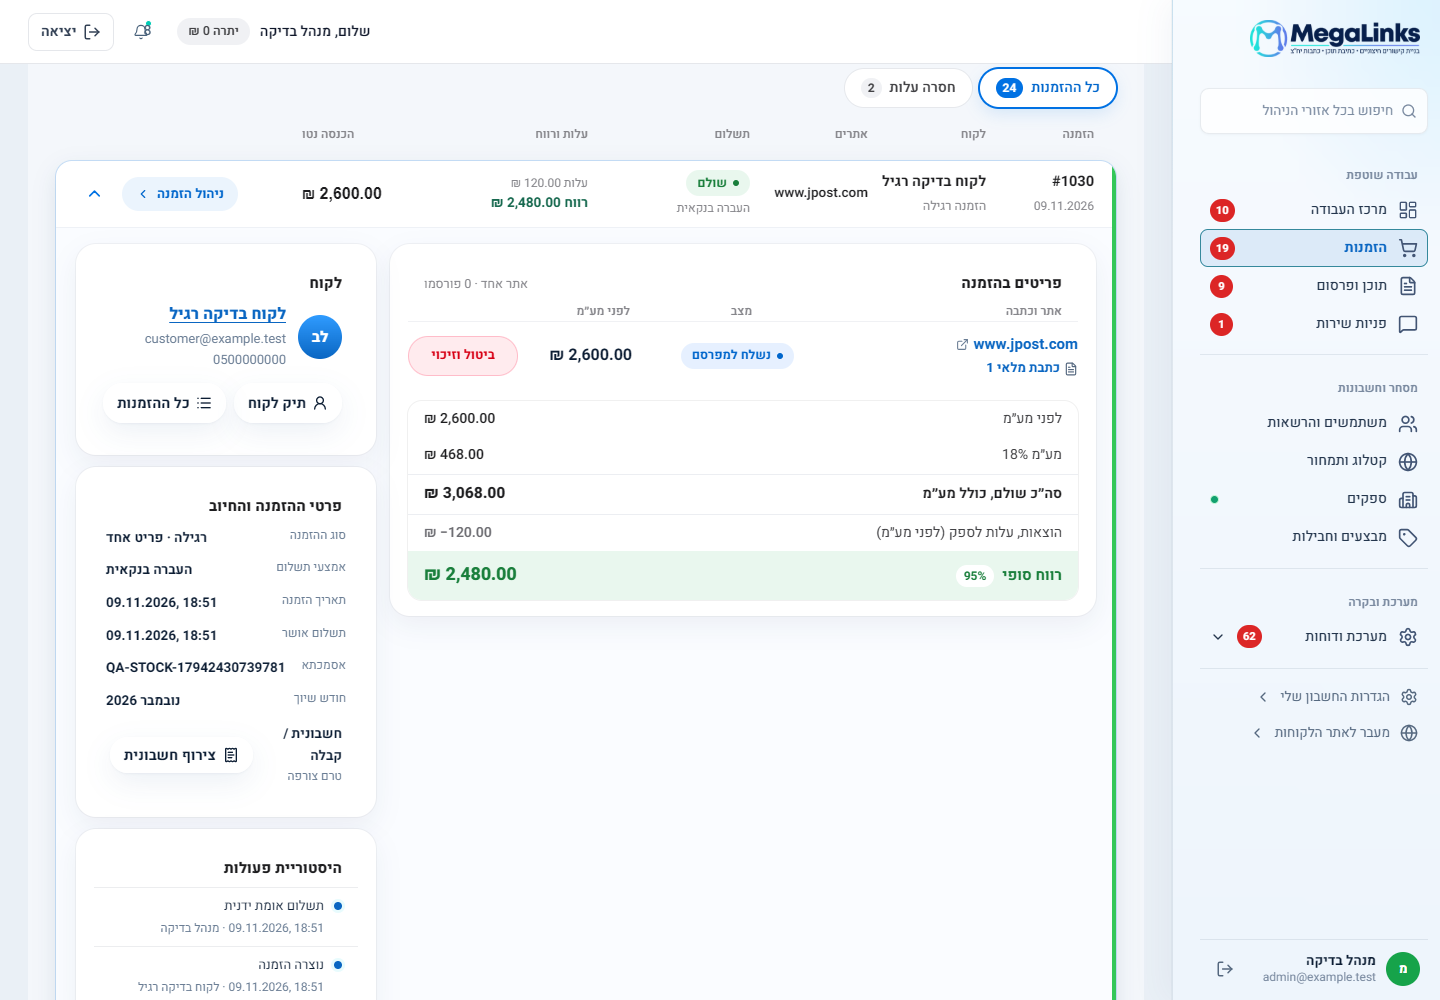
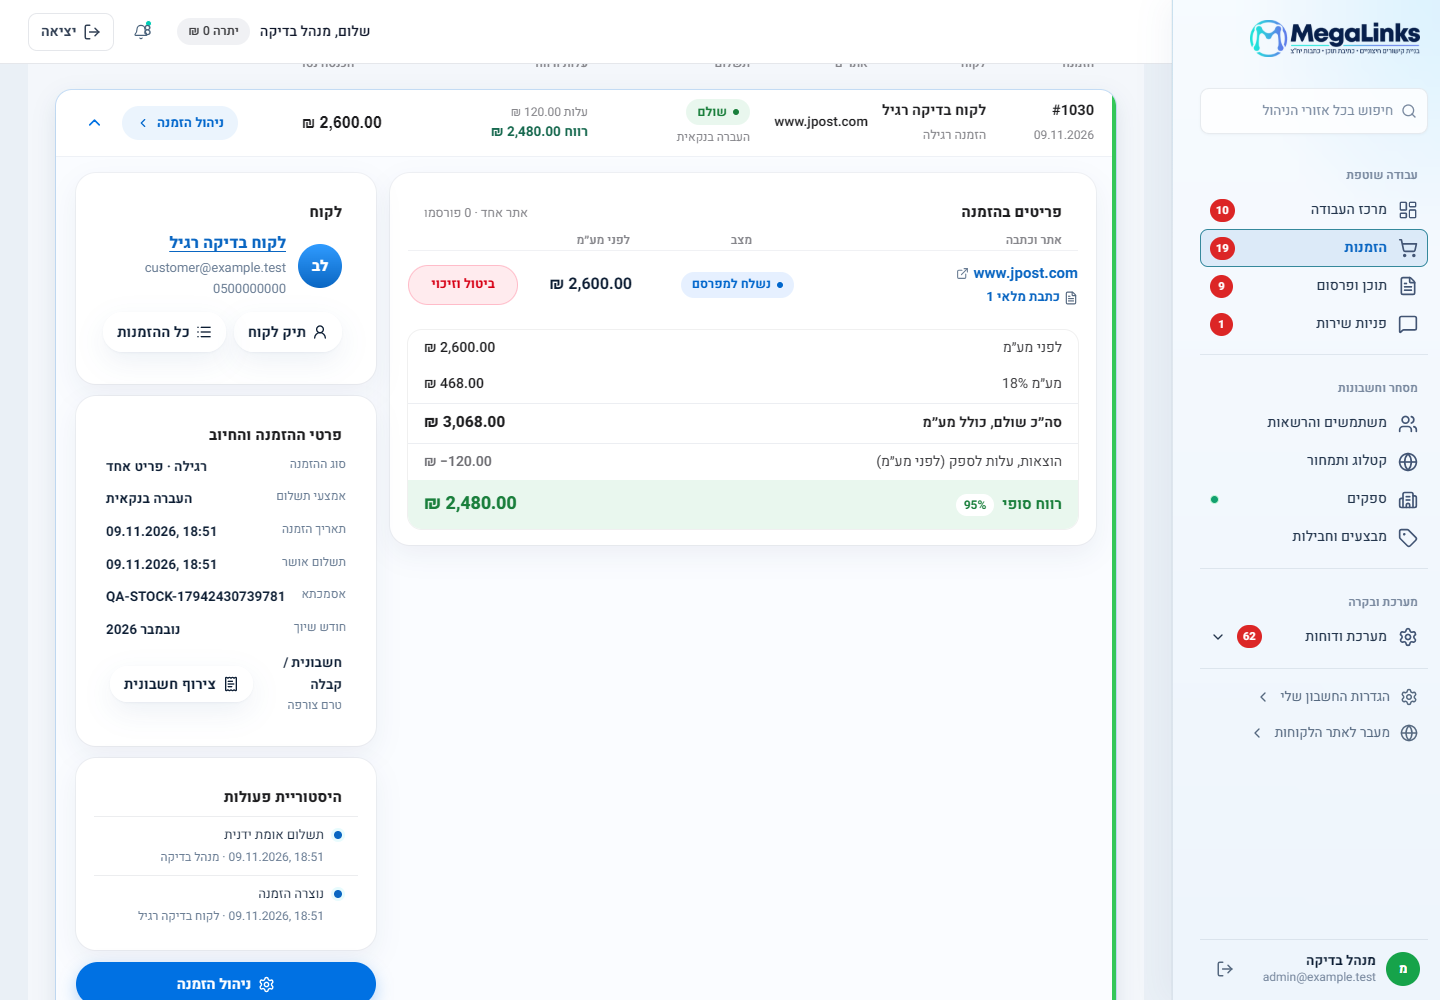
Month close: remove the old order profitability box
Income, cost and profit before tax are already in the new money rows of the open order, so the separate box only repeated them.

diff --git a/app/admin-month-close.tsx b/app/admin-month-close.tsx
@@ -18,8 +18,6 @@ import {OrderAction,OrderExport,OrderFilter,OrderPager,OrderRecord,OrderSites,Or
 function monthRange(back=0){const today=israelDate(new Date().toISOString()),first=new Date(Date.UTC(Number(today.slice(0,4)),Number(today.slice(5,7))-1-back,1,12)),month=first.toISOString().slice(0,7),end=new Date(Date.UTC(first.getUTCFullYear(),first.getUTCMonth()+1,0,12)).toISOString().slice(0,10);return {from:month+'-01',to:end,basis:'payment'};}
 const defaultRange=()=>monthRange();
 const rangeOf=(month:string)=>{const end=new Date(Date.UTC(Number(month.slice(0,4)),Number(month.slice(5)),0,12)).toISOString().slice(0,10);return {from:month+'-01',to:end,basis:'payment'};};
-const amountOrMissing=(value:number|null)=>value===null?'חסרה':<bdi>{orderMoney(value)}</bdi>;
-function OrderProfit({o}:{o:Row}){return <section className="om-wide"><h3>רווחיות ההזמנה</h3><div className="om-flow"><span>הכנסה לפני מע״מ<b><bdi>{orderMoney(o.income_net)}</bdi></b></span><span className={o.cost_net===null?'is-warning':undefined}>עלות לפני מע״מ<b>{amountOrMissing(o.cost_net)}</b></span><span className={o.profit_net===null?'is-warning':Number(o.profit_net)<0?'is-loss':'is-after'}>רווח לפני מס<b>{o.profit_net===null?'לא הושלם':<bdi>{orderMoney(o.profit_net)}</bdi>}</b></span></div>{o.cost_net===null&&<p className="om-note">{o.cost_known>0?<>עלות ידועה: <bdi>{orderMoney(o.cost_known)}</bdi>. </>:null}חסרים {o.cost_missing} רכיבי עלות, ולכן הרווח לא הושלם.</p>}</section>;}
 export default function AdminMonthClose({ctx}:{ctx:Ctx}){
  const [applied,setApplied]=useState(()=>({...adminViewState('month-close',defaultRange()),basis:'payment'})),[draft,setDraft]=useState(applied),[error,setError]=useState(''),[rangeError,setRangeError]=useState(false),[page,setPage]=useState(1),[open,setOpen]=useState(''),[view,setView]=useState('all'),fromInput=useRef<HTMLInputElement>(null),toInput=useRef<HTMLInputElement>(null);
  const params=new URLSearchParams(applied),state=useData('admin/month-close?'+params,ctx.revision),data=state.data,current=!!data&&data.from===applied.from&&data.to===applied.to&&data.basis===applied.basis;
@@ -38,7 +36,7 @@ export default function AdminMonthClose({ctx}:{ctx:Ctx}){
    <OrderViews label="איזה הזמנות להציג" value={view} onChange={v=>{setView(v);setPage(1);setOpen('');}} views={[['all','כל ההזמנות',allOrders.length],['missing','חסרה עלות',missingCost]]}/>
    {!orders.length?<div className="orders-reference-empty"><h3>אין הזמנות בתצוגה הזו</h3><p>לא נמצאו הזמנות ששולמו ואושרו בטווח שנבחר.</p></div>:<>
     <div className="om-head" aria-hidden="true"><span>הזמנה</span><span>לקוח</span><span>אתרים</span><span>תשלום</span><span>עלות ורווח</span><span>הכנסה נטו</span><span/><span/></div>
-    <div className="om-list" aria-label="הזמנות בתקופה">{orders.slice((shownPage-1)*20,shownPage*20).map(o=>{const isOpen=open===o.id,pay=orderPaymentState(o);return <OrderRecord key={o.id} id={o.id} tone={pay.tone} label={orderNumber(o)} open={isOpen} onToggle={()=>setOpen(isOpen?'':o.id)} panel={<OrderPanel ctx={ctx} order={o} profit manage={()=>ctx.go('admin-order/'+o.id)} section={()=><OrderProfit o={o}/>}/>}>
+    <div className="om-list" aria-label="הזמנות בתקופה">{orders.slice((shownPage-1)*20,shownPage*20).map(o=>{const isOpen=open===o.id,pay=orderPaymentState(o);return <OrderRecord key={o.id} id={o.id} tone={pay.tone} label={orderNumber(o)} open={isOpen} onToggle={()=>setOpen(isOpen?'':o.id)} panel={<OrderPanel ctx={ctx} order={o} profit manage={()=>ctx.go('admin-order/'+o.id)}/>}>
       <div className="om-id"><strong><bdi>{orderNumber(o)}</bdi></strong><time>{orderDate(o.paid_date||o.paid_at)}</time></div>
       <div className="om-who"><b>{o.user_name||o.name}</b><span>{o.on_account||o.payment==='monthly'||o.billing_month?<span className="is-monthly">הזמנה חודשית</span>:'הזמנה רגילה'}</span></div>
       <OrderSites order={o}/>

diff --git a/NOTES.md b/NOTES.md
@@ -752,3 +752,10 @@ Owner clarified: every orders-area screen shows the full money rows (before VAT,
 - The note is hidden wherever the money rows show (all five screens pass `profit`). The column header "before VAT" above the item prices stays.
 - Files: `app/admin-order-panel.tsx`, `app/admin-month-close.tsx`. Screenshot `docs/mockups/orders-inner-money-rows.png` updated, `orders-inner-month-close-no-dup.png` removed.
 - Checked locally on the orders screen, month close, payment reports, invoices and monthly accounts (desktop 1440). tsc and build pass. Nothing pushed.
+
+## 10.11.2026: Month close, old profitability box removed
+
+Owner: the "order profitability" box (income before VAT, cost before VAT, profit before tax) under the open order on month close repeats what the new money rows show. Removed it: the `OrderProfit` section and its helper `amountOrMissing` in `app/admin-month-close.tsx`.
+- Kept: the boxes on invoices (attach document) and payment reports (approve or reject report). They are actions, not duplicates.
+- Note: the old box showed "missing N cost items" on month close. The new money rows show the same as "profit not known yet, N costs missing".
+- Checked locally, desktop 1440 and phone 390. tsc and build pass. Nothing pushed.
